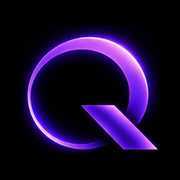
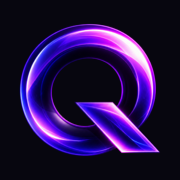
Заменить логотип Quazar на новую неоновую эмблему

diff --git a/web/public/sw.js b/web/public/sw.js
@@ -39,8 +39,8 @@ self.addEventListener("push", (event) => {
     const options = {
       body: name,
       tag: `quazar-call-${data.call_id || "unknown"}`,
-      icon: "/icons/icon-192.png",
-      badge: "/icons/icon-48.png",
+      icon: "/icons/icon-192.png?v=neon-q-2",
+      badge: "/icons/icon-48.png?v=neon-q-2",
       requireInteraction: true,
       renotify: true,
       data: {
@@ -75,8 +75,8 @@ self.addEventListener("push", (event) => {
     const options = {
       body: data.body || "",
       tag: `quazar-door-${data.knock_id || data.channel_id || "x"}`,
-      icon: "/icons/icon-192.png",
-      badge: "/icons/icon-48.png",
+      icon: "/icons/icon-192.png?v=neon-q-2",
+      badge: "/icons/icon-48.png?v=neon-q-2",
       requireInteraction: door === "invite" || door === "knock",
       renotify: true,
       data: {
@@ -98,8 +98,8 @@ self.addEventListener("push", (event) => {
     const options = {
       body: data.body || "",
       tag: data.tag || `quazar-star-${data.channel_id || "x"}`,
-      icon: "/icons/icon-192.png",
-      badge: "/icons/icon-48.png",
+      icon: "/icons/icon-192.png?v=neon-q-2",
+      badge: "/icons/icon-48.png?v=neon-q-2",
       renotify: true,
       data: { kind: "star", starId: data.star_id || null, channelId: data.channel_id || null },
     };
@@ -111,8 +111,8 @@ self.addEventListener("push", (event) => {
   const options = {
     body: data.body || "Новое уведомление",
     tag: data.tag || "quazar-push",
-    icon: "/icons/icon-192.png",
-    badge: "/icons/icon-48.png",
+    icon: "/icons/icon-192.png?v=neon-q-2",
+    badge: "/icons/icon-48.png?v=neon-q-2",
     data: { kind: "message", chatId: data.chatId || data.chat_id || null },
   };
   event.waitUntil(self.registration.showNotification(title, options));

diff --git a/web/index.html b/web/index.html
@@ -19,11 +19,11 @@
     <meta name="apple-mobile-web-app-status-bar-style" content="black-translucent" />
     <meta name="apple-mobile-web-app-title" content="Quazar" />
     <meta name="mobile-web-app-capable" content="yes" />
-    <link rel="manifest" href="/site.webmanifest" />
-    <link rel="icon" href="/favicon.ico" sizes="any" />
-    <link rel="icon" type="image/png" sizes="32x32" href="/favicon-32.png" />
-    <link rel="icon" type="image/png" sizes="16x16" href="/favicon-16.png" />
-    <link rel="apple-touch-icon" href="/apple-touch-icon.png" />
+    <link rel="manifest" href="/site.webmanifest?v=neon-q-2" />
+    <link rel="icon" href="/favicon.ico?v=neon-q-2" sizes="any" />
+    <link rel="icon" type="image/png" sizes="32x32" href="/favicon-32.png?v=neon-q-2" />
+    <link rel="icon" type="image/png" sizes="16x16" href="/favicon-16.png?v=neon-q-2" />
+    <link rel="apple-touch-icon" href="/apple-touch-icon.png?v=neon-q-2" />
     <title>Quazar</title>
   </head>
   <body>

diff --git a/mobile/src/screens/AuthScreen.tsx b/mobile/src/screens/AuthScreen.tsx
@@ -1,6 +1,7 @@
 import React, {useState} from 'react';
 import {
   ActivityIndicator,
+  Image,
   KeyboardAvoidingView,
   Platform,
   Pressable,
@@ -175,6 +176,12 @@ export default function AuthScreen() {
       style={s.root}
       behavior={Platform.OS === 'ios' ? 'padding' : 'height'}>
       <View style={s.card}>
+        <Image
+          source={require('../assets/logo-mark.png')}
+          style={s.logoMark}
+          resizeMode="contain"
+          accessible={false}
+        />
         <Text style={s.logo}>Quazar</Text>
 
         <View style={s.tabs}>
@@ -262,6 +269,7 @@ export default function AuthScreen() {
 const s = StyleSheet.create({
   root: {flex: 1, backgroundColor: '#0f1117', alignItems: 'center', justifyContent: 'center'},
   card: {width: '88%', maxWidth: 360},
+  logoMark: {width: 88, height: 88, alignSelf: 'center', marginBottom: 8},
   logo: {
     fontSize: 32,
     fontWeight: '700',

diff --git a/web/src/notifications/notify.ts b/web/src/notifications/notify.ts
@@ -50,8 +50,8 @@ async function showSystemNotification(opts: {
   } = {
     body: opts.body,
     tag: opts.tag,
-    icon: "/icons/icon-192.png",
-    badge: "/icons/icon-48.png",
+    icon: "/icons/icon-192.png?v=neon-q-2",
+    badge: "/icons/icon-48.png?v=neon-q-2",
     silent: opts.silent ?? true,
     requireInteraction: opts.requireInteraction ?? false,
     renotify: opts.kind === "call",
@@ -259,8 +259,8 @@ export async function notifyDoor(
   const options: NotificationOptions & { actions?: { action: string; title: string }[] } = {
     body: opts.body,
     tag: `quazar-door-${link.knockId ?? link.channelId}`,
-    icon: "/icons/icon-192.png",
-    badge: "/icons/icon-48.png",
+    icon: "/icons/icon-192.png?v=neon-q-2",
+    badge: "/icons/icon-48.png?v=neon-q-2",
     requireInteraction: link.door === "invite" || link.door === "knock",
     data: { kind: "door", ...link },
   };

diff --git a/web/src/pages/AuthPage.tsx b/web/src/pages/AuthPage.tsx
@@ -90,7 +90,7 @@ export default function AuthPage() {
     return (
       <div className={s.root}>
         <div className={s.card}>
-          <img className={s.logoMark} src="/logo-mark.png" alt="" />
+          <img className={s.logoMark} src="/logo-mark.png?v=neon-q-2" alt="" />
           <h1 className={s.brandName}>Quazar</h1>
           <p className={s.tagline}>Общение. Звонки. Люди. В одном пространстве.</p>
           <div className={s.actions}>

diff --git a/web/src/pages/GuestPage.tsx b/web/src/pages/GuestPage.tsx
@@ -149,7 +149,7 @@ export default function GuestPage() {
   return (
     <div className={s.page}>
       <div className={s.card}>
-        <img className={s.logo} src="/logo-mark.png" alt="Quazar" />
+        <img className={s.logo} src="/logo-mark.png?v=neon-q-2" alt="Quazar" />
         {!info && !error && <p className={s.hint}>Открываем приглашение…</p>}
         {info && (
           <>

diff --git a/web/src/components/support/SupportAvatar.tsx b/web/src/components/support/SupportAvatar.tsx
@@ -7,7 +7,7 @@ export default function SupportAvatar({ size = "md" }: { size?: keyof typeof SIZ
   const px = SIZES[size];
   return (
     <span className={s.avatar} style={{ width: px, height: px }} aria-hidden>
-      <img src="/logo-mark.png" alt="" width={px} height={px} />
+      <img src="/logo-mark.png?v=neon-q-2" alt="" width={px} height={px} />
     </span>
   );
 }

diff --git a/web/src/components/AppNav.tsx b/web/src/components/AppNav.tsx
@@ -123,7 +123,7 @@ export default function AppNav() {
   return (
     <>
       <aside className={s.side}>
-        <img className={s.logo} src="/logo-mark.png" alt="Quazar" />
+        <img className={s.logo} src="/logo-mark.png?v=neon-q-2" alt="Quazar" />
         <nav className={s.navItems}>{renderItems("side")}</nav>
         <button
           type="button"

diff --git a/web/src/components/ChatList.tsx b/web/src/components/ChatList.tsx
@@ -56,7 +56,7 @@ export default function ChatList() {
   return (
     <div className={s.root}>
       <div className={s.header}>
-        <img className={s.brandMark} src="/logo-mark.png" alt="Quazar" />
+        <img className={s.brandMark} src="/logo-mark.png?v=neon-q-2" alt="Quazar" />
         <span className={s.title}>Quazar</span>
       </div>
 

diff --git a/web/src/components/support/Support.module.css b/web/src/components/support/Support.module.css
@@ -21,7 +21,9 @@
 .avatar img {
   width: 100%;
   height: 100%;
-  object-fit: cover;
+  padding: 12%;
+  box-sizing: border-box;
+  object-fit: contain;
 }
 
 /* --- Карточка обращения в чате --- */

diff --git a/web/src/components/AppNav.module.css b/web/src/components/AppNav.module.css
@@ -17,8 +17,7 @@
   width: 42px;
   height: 42px;
   margin-bottom: 18px;
-  border-radius: 12px;
-  object-fit: cover;
+  object-fit: contain;
   filter: drop-shadow(0 0 12px rgba(168, 85, 247, 0.5));
 }
 

diff --git a/web/src/components/ChatList.module.css b/web/src/components/ChatList.module.css
@@ -18,8 +18,7 @@
 .brandMark {
   width: 32px;
   height: 32px;
-  border-radius: 8px;
-  object-fit: cover;
+  object-fit: contain;
   flex-shrink: 0;
   user-select: none;
   -webkit-user-drag: none;
